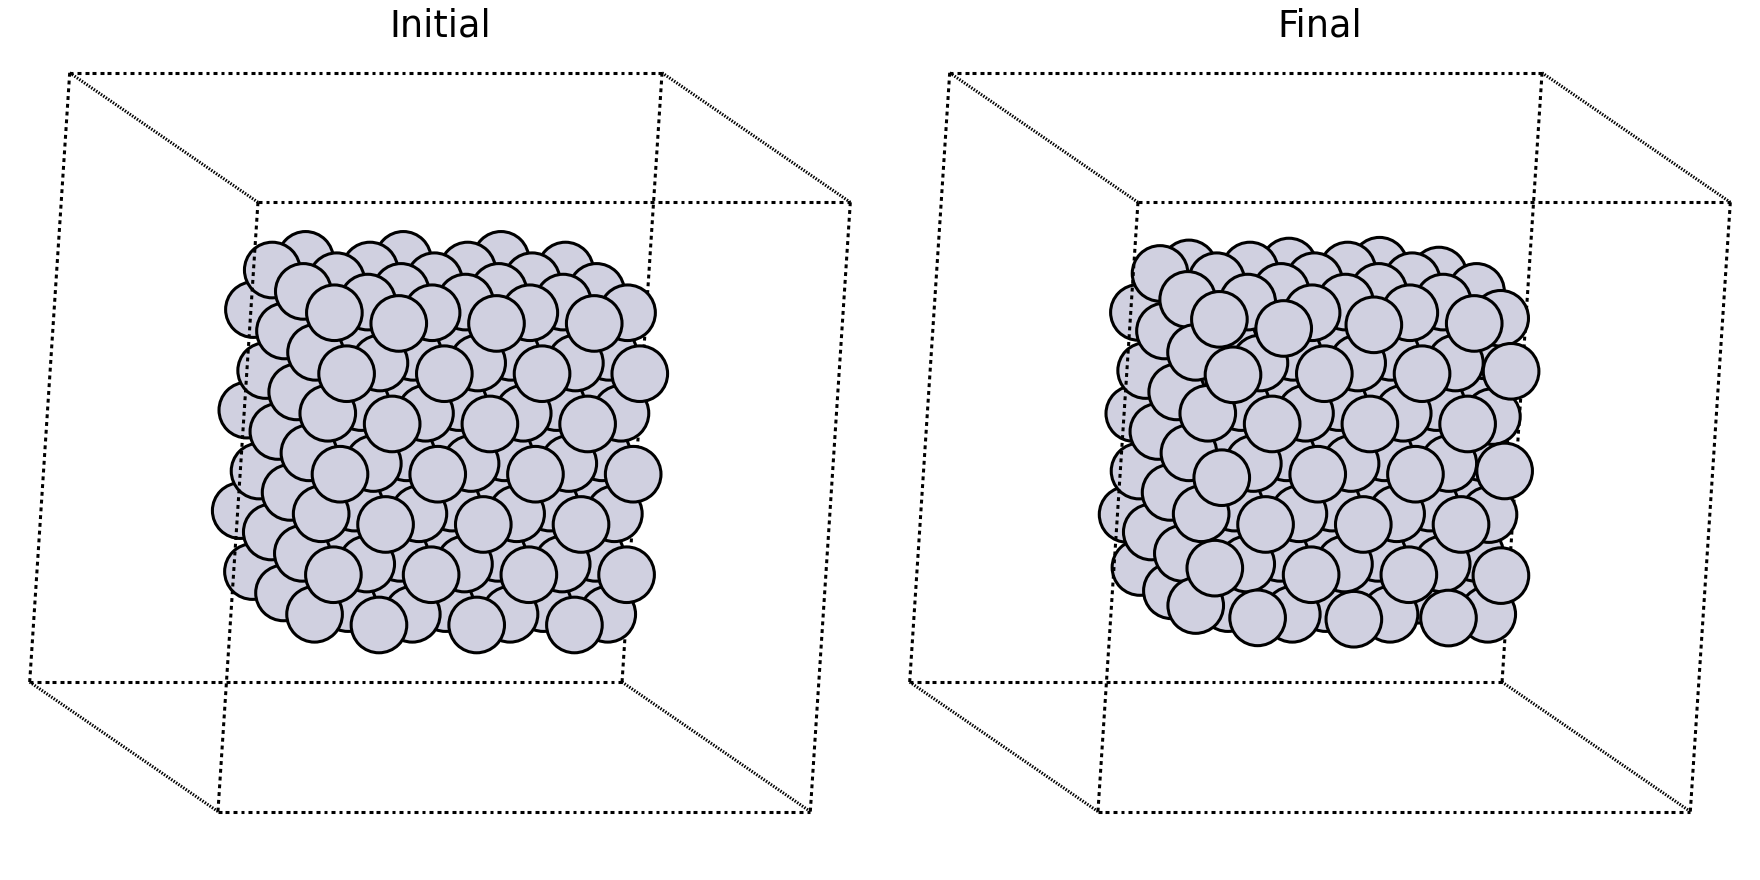
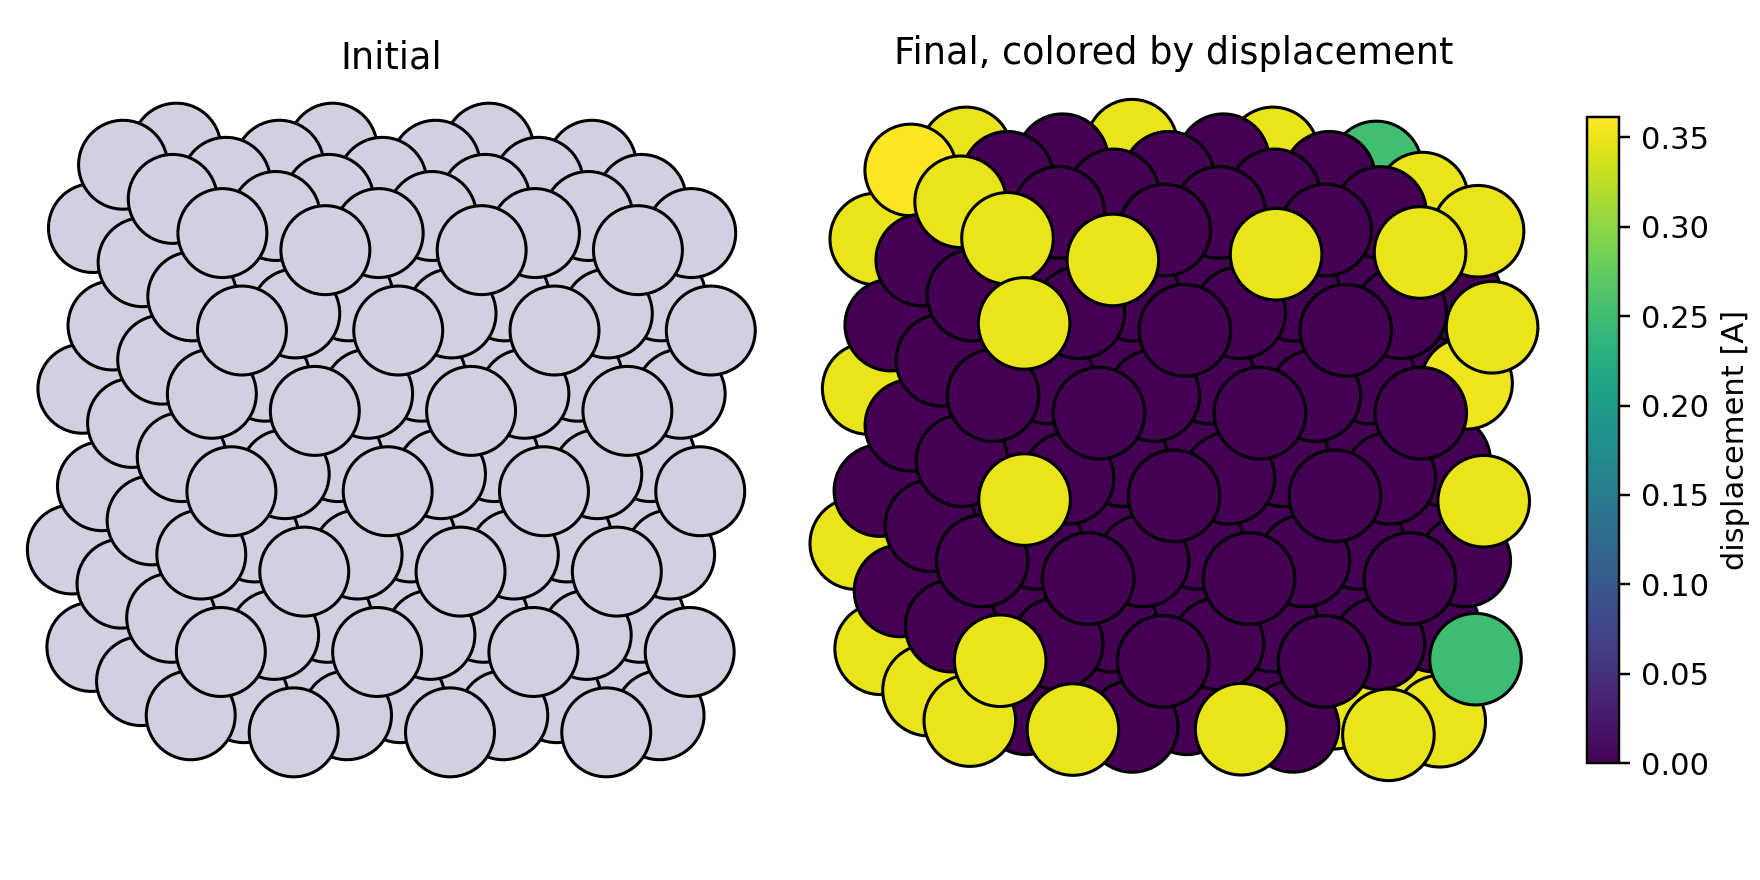
Fix MC temperature scale and local trial sampling

diff --git a/examples/mc/orb_v3_wulff_mc.py b/examples/mc/orb_v3_wulff_mc.py
@@ -9,6 +9,9 @@ import numpy as np
 from atomvoxelizer import VoxelGrid
 
 
+KB_EV_PER_K = 8.617333262145e-5
+
+
 def build_wulff_nanoparticle(symbol="Pt", natoms=201, lattice_constant=3.92, shape="cube"):
     """Build a finite fcc WulffPack particle."""
     try:
@@ -149,8 +152,9 @@ def run_minimal_mc(
     atoms,
     trial_sites,
     steps=50,
-    temperature=0.05,
+    temperature=900.0,
     max_displacement=0.35,
+    local_trial_radius=3.0,
     seed=11,
     score_fn=None,
     return_frames=False,
@@ -165,7 +169,7 @@ def run_minimal_mc(
     frames = []
     if temperature <= 0.0:
         raise ValueError("temperature must be positive")
-    beta = 1.0 / temperature
+    beta = 1.0 / (KB_EV_PER_K * temperature)
     if return_frames:
         initial = atoms.copy()
         initial.info.update(
@@ -182,8 +186,15 @@ def run_minimal_mc(
 
     for step in range(steps):
         atom_index = int(rng.choice(movable))
-        target = trial_sites[int(rng.integers(len(trial_sites)))]
         old_position = atoms.positions[atom_index].copy()
+        if local_trial_radius > 0.0:
+            trial_distances = np.linalg.norm(trial_sites - old_position, axis=1)
+            local_sites = trial_sites[trial_distances <= local_trial_radius]
+            if len(local_sites) == 0:
+                local_sites = trial_sites
+        else:
+            local_sites = trial_sites
+        target = local_sites[int(rng.integers(len(local_sites)))]
         direction = target - old_position
         distance = np.linalg.norm(direction)
         if distance > max_displacement:
@@ -252,14 +263,37 @@ def plot_trial_sites(atoms, trial_sites, output):
 def plot_initial_final_states(initial_atoms, final_atoms, output):
     """Render initial and final ASE structures side by side."""
     import matplotlib.pyplot as plt
+    from matplotlib import cm, colors
     from ase.visualize.plot import plot_atoms
 
     fig, axes = plt.subplots(1, 2, figsize=(8.0, 4.0), constrained_layout=True)
-    for ax, atoms, title in zip(axes, (initial_atoms, final_atoms), ("Initial", "Final")):
-        plot_atoms(atoms, ax, rotation="12x,18y,0z", radii=0.78)
-        ax.set_title(title)
+    displacements = np.linalg.norm(final_atoms.positions - initial_atoms.positions, axis=1)
+    vmax = max(float(displacements.max()), 1e-12)
+    norm = colors.Normalize(vmin=0.0, vmax=vmax)
+    cmap = plt.get_cmap("viridis")
+    final_colors = [cmap(norm(value)) for value in displacements]
+
+    plot_atoms(initial_atoms, axes[0], rotation="12x,18y,0z", radii=0.78, show_unit_cell=0)
+    axes[0].set_title("Initial")
+
+    plot_atoms(
+        final_atoms,
+        axes[1],
+        rotation="12x,18y,0z",
+        radii=0.78,
+        show_unit_cell=0,
+        colors=final_colors,
+    )
+    axes[1].set_title("Final, colored by displacement")
+
+    for ax in axes:
         ax.set_axis_off()
         ax.set_aspect("equal")
+
+    scalar_map = cm.ScalarMappable(norm=norm, cmap=cmap)
+    scalar_map.set_array([])
+    colorbar = fig.colorbar(scalar_map, ax=axes, shrink=0.75, pad=0.02)
+    colorbar.set_label("displacement [A]")
 
     output = Path(output)
     output.parent.mkdir(parents=True, exist_ok=True)
@@ -274,9 +308,25 @@ def main():
     parser.add_argument("--natoms", type=int, default=201)
     parser.add_argument("--shape", choices=("cube", "wulff"), default="cube")
     parser.add_argument("--resolution", type=float, default=0.35)
+    parser.add_argument("--shell-scale", type=float, default=1.4)
+    parser.add_argument("--core-scale", type=float, default=1.1)
+    parser.add_argument("--min-count", type=float, default=2.5)
+    parser.add_argument("--max-count", type=float, default=3.5)
+    parser.add_argument("--max-sites", type=int, default=500)
     parser.add_argument("--steps", type=int, default=50)
-    parser.add_argument("--temperature", type=float, default=0.2)
+    parser.add_argument(
+        "--temperature",
+        type=float,
+        default=900.0,
+        help="Metropolis temperature in Kelvin.",
+    )
     parser.add_argument("--max-displacement", type=float, default=0.35)
+    parser.add_argument(
+        "--local-trial-radius",
+        type=float,
+        default=3.0,
+        help="Choose voxel trial sites within this distance of the selected atom. Use 0 for global sampling.",
+    )
     parser.add_argument("--seed", type=int, default=11)
     parser.add_argument("--score", choices=("emt", "orb-v3"), default="emt")
     parser.add_argument("--device", default="cpu", help="Device passed to ORB-V3 when --score orb-v3 is used.")
@@ -293,8 +343,19 @@ def main():
     initial_atoms = atoms.copy()
     initial_positions = atoms.positions.copy()
     initial_radial_variance = radial_variance(atoms)
-    grid = build_coordination_surface_grid(atoms, resolution=args.resolution)
-    trial_sites = sample_surface_trial_sites(grid, seed=args.seed)
+    grid = build_coordination_surface_grid(
+        atoms,
+        resolution=args.resolution,
+        shell_scale=args.shell_scale,
+        core_scale=args.core_scale,
+    )
+    trial_sites = sample_surface_trial_sites(
+        grid,
+        min_count=args.min_count,
+        max_count=args.max_count,
+        max_sites=args.max_sites,
+        seed=args.seed,
+    )
     if args.score == "orb-v3":
         score_fn = make_orb_v3_score(args.device)
     else:
@@ -305,6 +366,7 @@ def main():
         steps=args.steps,
         temperature=args.temperature,
         max_displacement=args.max_displacement,
+        local_trial_radius=args.local_trial_radius,
         seed=args.seed,
         score_fn=score_fn,
         return_frames=bool(args.trajectory),

diff --git a/tests/test_mc_example.py b/tests/test_mc_example.py
@@ -49,8 +49,9 @@ def test_minimal_mc_emt_score_moves_atoms_without_accepting_everything():
         atoms,
         trial_sites,
         steps=100,
-        temperature=5.0,
+        temperature=50000.0,
         max_displacement=0.35,
+        local_trial_radius=3.0,
         seed=11,
         score_fn=score,
     )
@@ -84,7 +85,7 @@ def test_minimal_mc_can_write_ase_trajectory(tmp_path):
         atoms,
         trial_sites,
         steps=5,
-        temperature=0.05,
+        temperature=1500.0,
         max_displacement=0.35,
         seed=2,
         return_frames=True,

diff --git a/docs/source/conf.py b/docs/source/conf.py
@@ -7,7 +7,7 @@ sys.path.insert(0, str(Path(__file__).resolve().parents[2] / "src"))
 
 project = "AtomVoxelizer"
 author = "AtomVoxelizer contributors"
-release = "0.2.11"
+release = "0.2.12"
 
 extensions = [
     "sphinx.ext.autodoc",

diff --git a/docs/source/quickstart.rst b/docs/source/quickstart.rst
@@ -118,8 +118,9 @@ The example chooses likely surface atoms by radial distance, picks a sampled
 voxel trial site, and moves the atom a short distance toward that site. The
 default score is the ASE EMT potential energy, which keeps the tutorial
 physically interpretable while still running quickly. With the default
-``temperature=0.2`` and ``max_displacement=0.35``, the Pt cube accepts a visible
-number of trial moves without accepting every trial.
+``temperature=900`` K and ``max_displacement=0.35``, the Pt cube accepts local
+surface moves without accepting every trial. The documentation image below uses
+1500 K and a slightly tighter shell mask to give an acceptance ratio near 20%.
 
 .. code-block:: python
 
@@ -135,7 +136,7 @@ number of trial moves without accepting every trial.
    atoms.calc = EMT()
 
    current_score = atoms.get_potential_energy()
-   beta = 1.0 / 0.2
+   beta = 1.0 / (8.617333262145e-5 * 1500.0)
 
    atom_index = int(rng.choice(movable))
    target = trial_sites[int(rng.integers(len(trial_sites)))]
@@ -162,7 +163,8 @@ Run the EMT tutorial example with:
 .. code-block:: bash
 
    python examples/mc/orb_v3_wulff_mc.py --natoms 201 --resolution 0.35 \
-       --steps 250 --score emt --temperature 0.2 \
+       --shell-scale 1.25 --core-scale 1.05 \
+       --steps 250 --score emt --temperature 1500 \
        --plot quickstart_wulff_mc_sites.png \
        --state-plot docs/source/_static/quickstart_wulff_mc_initial_final.png
 
@@ -175,9 +177,10 @@ trajectory by default:
 
    examples/mc/orb_v3_wulff_mc.traj
 
-The image below was generated from a 250-step EMT run. The accepted moves lower
-the radial variance from ``3.386237`` to ``3.102322`` for this deterministic
-seed.
+The image below was generated from that 250-step EMT run. The local trial-site
+selection gives ``48/250`` accepted moves, an acceptance ratio of ``0.192``.
+The final panel is colored by displacement from the initial structure so the
+surface rearrangement is visible.
 
 .. image:: _static/quickstart_wulff_mc_initial_final.png
    :alt: Initial and final ASE-rendered nanoparticle states after 250 EMT MC steps